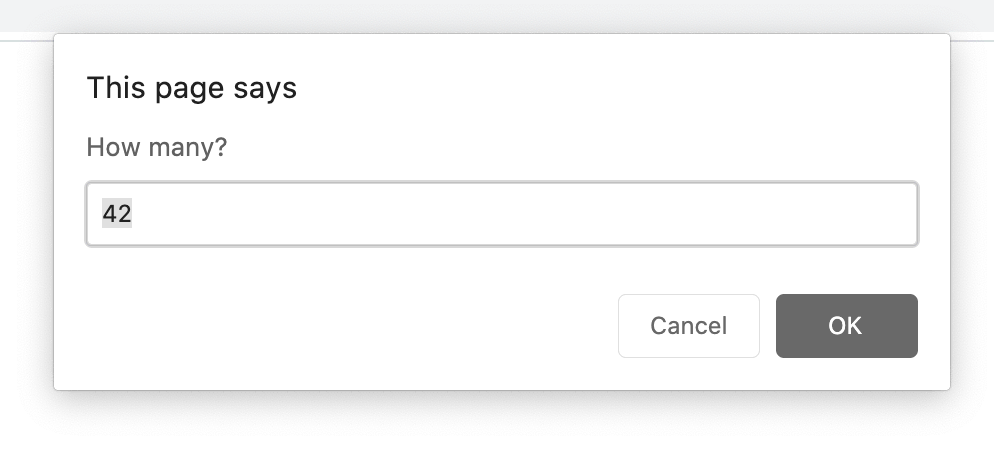
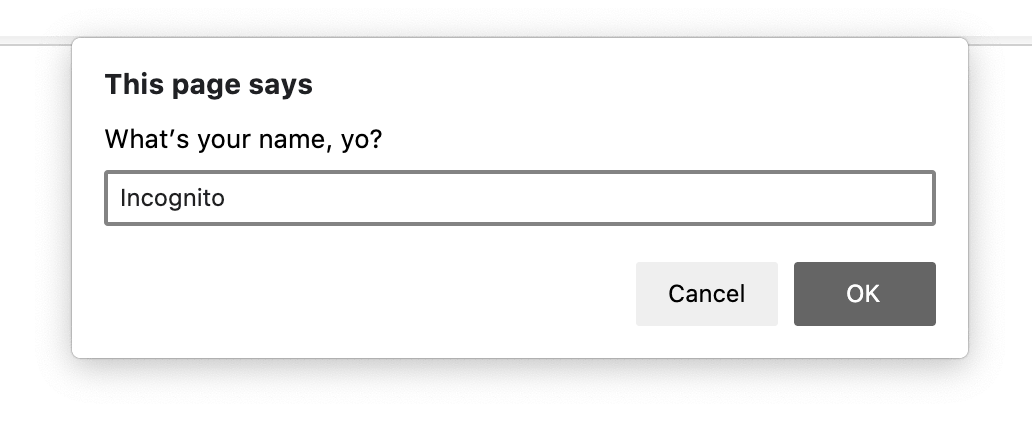
Clean up, template, more text

Changed region(s): [[0.0624, 0.0605, 1.0, 0.8465], [0.0, 0.0907, 0.0624, 0.1209]]

diff --git a/src/exercises/6-Single_use_case_component/templates/Prompt.js b/src/exercises/6-Single_use_case_component/templates/Prompt.js
@@ -1,0 +1,82 @@
+import React from 'react';
+import PropTypes from 'prop-types';
+
+// WORKSHOP_START
+export default function Prompt(props) {
+	return (
+		<div
+			style={{
+				position: 'fixed',
+				display: 'flex',
+				alignItems: 'center',
+				justifyContent: 'center',
+				zIndex: 9999,
+				top: 0,
+				right: 0,
+				bottom: 0,
+				left: 0,
+			}}
+		>
+			<div
+				style={{
+					padding: '1rem',
+					backgroundColor: 'white',
+					border: '1px solid gainsboro',
+				}}
+			></div>
+		</div>
+	);
+}
+
+Prompt.propTypes = {};
+// WORKSHOP_END
+// FINAL_START
+export default function Prompt({ message, defaultValue, onSubmit }) {
+	const [value, setValue] = React.useState(defaultValue);
+	return (
+		<div
+			style={{
+				position: 'fixed',
+				display: 'flex',
+				alignItems: 'center',
+				justifyContent: 'center',
+				zIndex: 9999,
+				top: 0,
+				right: 0,
+				bottom: 0,
+				left: 0,
+			}}
+		>
+			<form
+				onSubmit={event => {
+					event.preventDefault();
+					onSubmit(value);
+				}}
+				style={{
+					padding: '1rem',
+					backgroundColor: 'white',
+					border: '1px solid gainsboro',
+				}}
+			>
+				<label>
+					<h2>{message}</h2>
+					<input
+						type="text"
+						value={value}
+						onChange={event => setValue(event.target.value)}
+					/>
+				</label>
+				<div>
+					<button type="submit">OK</button>
+				</div>
+			</form>
+		</div>
+	);
+}
+
+Prompt.propTypes = {
+	message: PropTypes.string.isRequired,
+	defaultValue: PropTypes.string,
+	onSubmit: PropTypes.func.isRequired,
+};
+// FINAL_END

diff --git a/src/exercises/6-Single_use_case_component/final/Prompt.js b/src/exercises/6-Single_use_case_component/final/Prompt.js
@@ -1,6 +1,7 @@
 import React from 'react';
+import PropTypes from 'prop-types';
 
-export default function Dialog({ message, defaultValue, onSubmit, onClose }) {
+export default function Prompt({ message, defaultValue, onSubmit }) {
 	const [value, setValue] = React.useState(defaultValue);
 	return (
 		<div
@@ -36,11 +37,15 @@ export default function Dialog({ message, defaultValue, onSubmit, onClose }) {
 					/>
 				</label>
 				<div>
-					<button type="submit" variant="primary">
-						OK
-					</button>
+					<button type="submit">OK</button>
 				</div>
 			</form>
 		</div>
 	);
 }
+
+Prompt.propTypes = {
+	message: PropTypes.string.isRequired,
+	defaultValue: PropTypes.string,
+	onSubmit: PropTypes.func.isRequired,
+};

diff --git a/src/exercises/4-Layout_Primitives/final/Stack.js b/src/exercises/4-Layout_Primitives/final/Stack.js
@@ -1,12 +1,9 @@
 import PropTypes from 'prop-types';
 import styled from 'styled-components';
 import { system } from 'styled-system';
-import { Flex } from '../../components';
+import { Box } from '../../components';
 
-export const Stack = styled(Flex)(
-	{
-		flexDirection: 'column',
-	},
+const Stack = styled(Box)(
 	/*
 	 * We are using a "lobotomized owl" CSS selector to add margin between children
 	 * More information: https://every-layout.dev/layouts/stack/#the-solution
@@ -24,7 +21,7 @@ export const Stack = styled(Flex)(
 );
 
 Stack.propTypes = {
-	...Flex.propTypes,
+	...Box.propTypes,
 	/** Spacing between items */
 	gap: PropTypes.oneOfType([
 		PropTypes.number,

diff --git a/src/exercises/6-Single_use_case_component/Prompt.js b/src/exercises/6-Single_use_case_component/Prompt.js
@@ -1,0 +1,30 @@
+import React from 'react';
+import PropTypes from 'prop-types';
+
+export default function Prompt(props) {
+	return (
+		<div
+			style={{
+				position: 'fixed',
+				display: 'flex',
+				alignItems: 'center',
+				justifyContent: 'center',
+				zIndex: 9999,
+				top: 0,
+				right: 0,
+				bottom: 0,
+				left: 0,
+			}}
+		>
+			<div
+				style={{
+					padding: '1rem',
+					backgroundColor: 'white',
+					border: '1px solid gainsboro',
+				}}
+			></div>
+		</div>
+	);
+}
+
+Prompt.propTypes = {};

diff --git a/src/exercises/4-Layout_Primitives/Stack.js b/src/exercises/4-Layout_Primitives/Stack.js
@@ -1,14 +1,14 @@
 import PropTypes from 'prop-types';
 import styled from 'styled-components';
 import { system } from 'styled-system';
-import { Flex } from '../../components';
+import { Box } from '../../components';
 
-const Stack = styled(Flex)({
+const Stack = styled(Box)({
 	// Your styles here
 });
 
 Stack.propTypes = {
-	...Flex.propTypes,
+	...Box.propTypes,
 	/** Spacing between items */
 	gap: PropTypes.oneOfType([
 		PropTypes.number,

diff --git a/src/exercises/6-Single_use_case_component/Readme.md b/src/exercises/6-Single_use_case_component/Readme.md
@@ -1,0 +1,32 @@
+In this exercise we’ll try to make a dialog component to ask some information from the user.
+
+## 1.1 Creating a single use case Propmt component
+
+Your project manager comes to your desk and says that they want to greet each app user by their name. To do that you need to implement a dialog that asks the user their name.
+
+### The task
+
+1. Build a dialog like `window.prompt` that asks the user their name. It should display a title, a text input, and a submit button. On submit of the form it the dialog closes, and displays the entered name on the screen.
+
+![Prompt screenshot](assets/window-prompt.png)
+
+Don’t bother much with styling and layout now — this isn’t the goal of today’s workshop. Focus on the architecture and the API.
+
+Consider starting with prop types to think what kind of an API would be ideal for this component.
+
+We’ve create some files and bootstrap code for you to make you focus on what’s important:
+
+- `src/exercises/6-Single_use_case_component/Prompt.js`: a base for your component;
+- `src/exercises/6-Single_use_case_component/Prompt.md`: code to run the component in Styleguidist.
+
+Edit these files as you like: you’ll see the results immediately here, in Styleguidist — scroll down a bit to see it. Feel free to ask help, or check the solution below, if you’re stuck.
+
+<details>
+ <summary>Solution</summary>
+
+A component (`src/exercises/6-Single_use_case_component/Prompt.js`):
+
+```jsx {"file": "final/Prompt.js", "static": true}
+```
+
+</details>

diff --git a/src/exercises/6-Single_use_case_component/Prompt.md b/src/exercises/6-Single_use_case_component/Prompt.md
@@ -3,14 +3,11 @@ const [isVisible, setIsVisible] = React.useState(false);
 const [name, setName] = React.useState('');
 <>
   {isVisible && (
-    <Dialog
+    <Prompt
       message="What’s your name, yo?"
       defaultValue="Incognito"
       onSubmit={value => {
         setName(value);
-        setIsVisible(false);
-      }}
-      onClose={() => {
         setIsVisible(false);
       }}
     />
